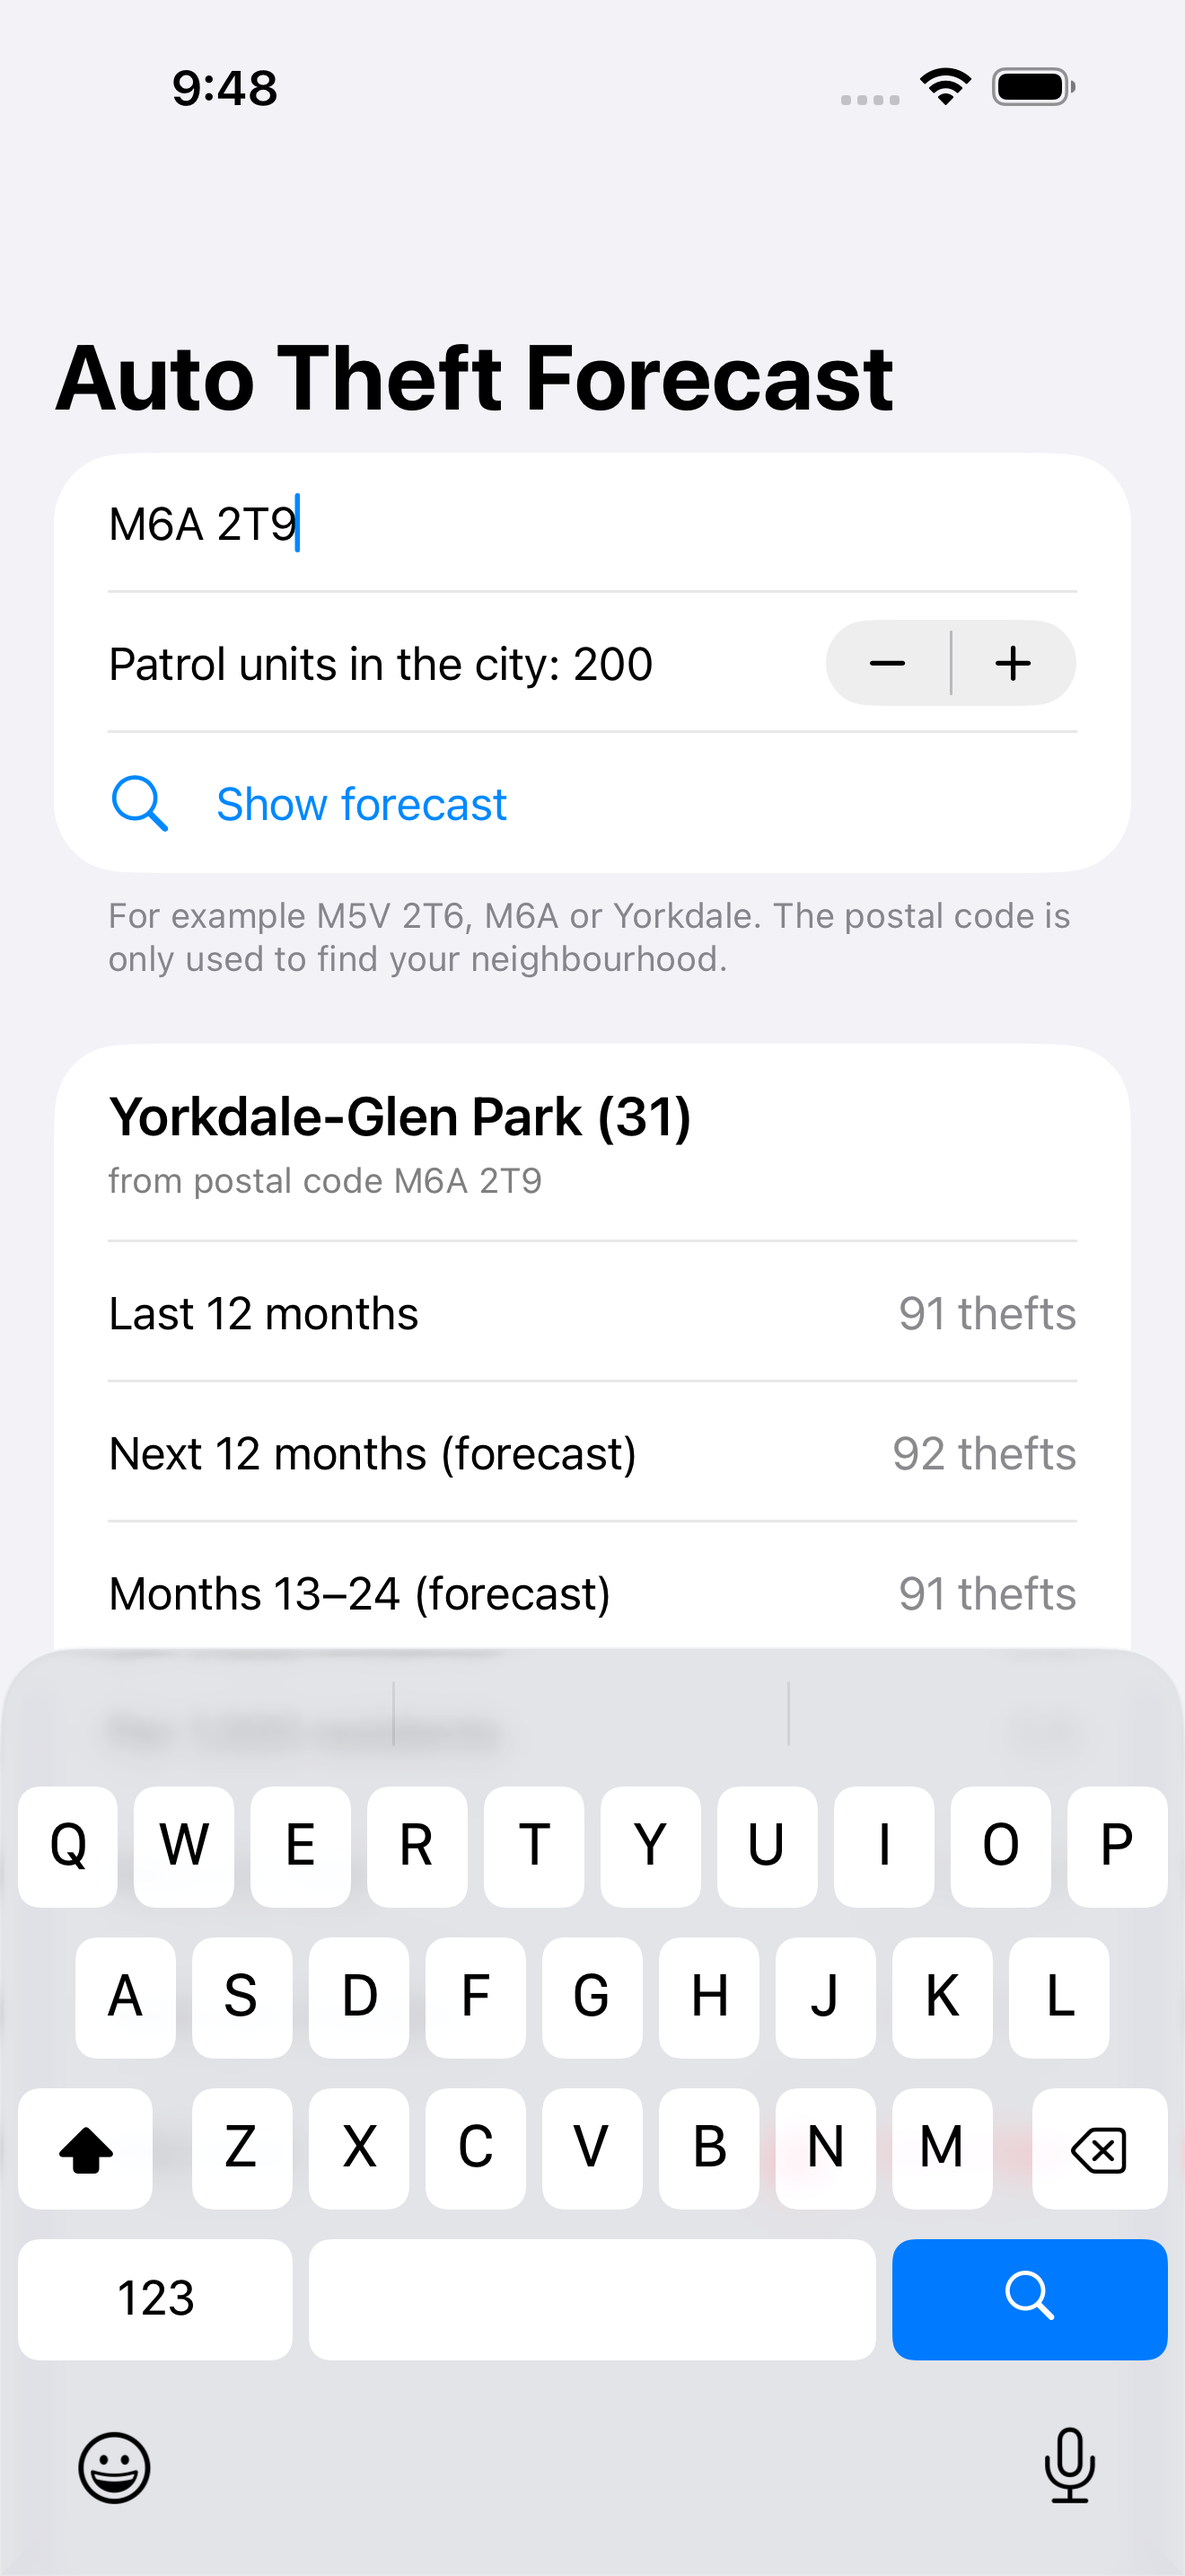
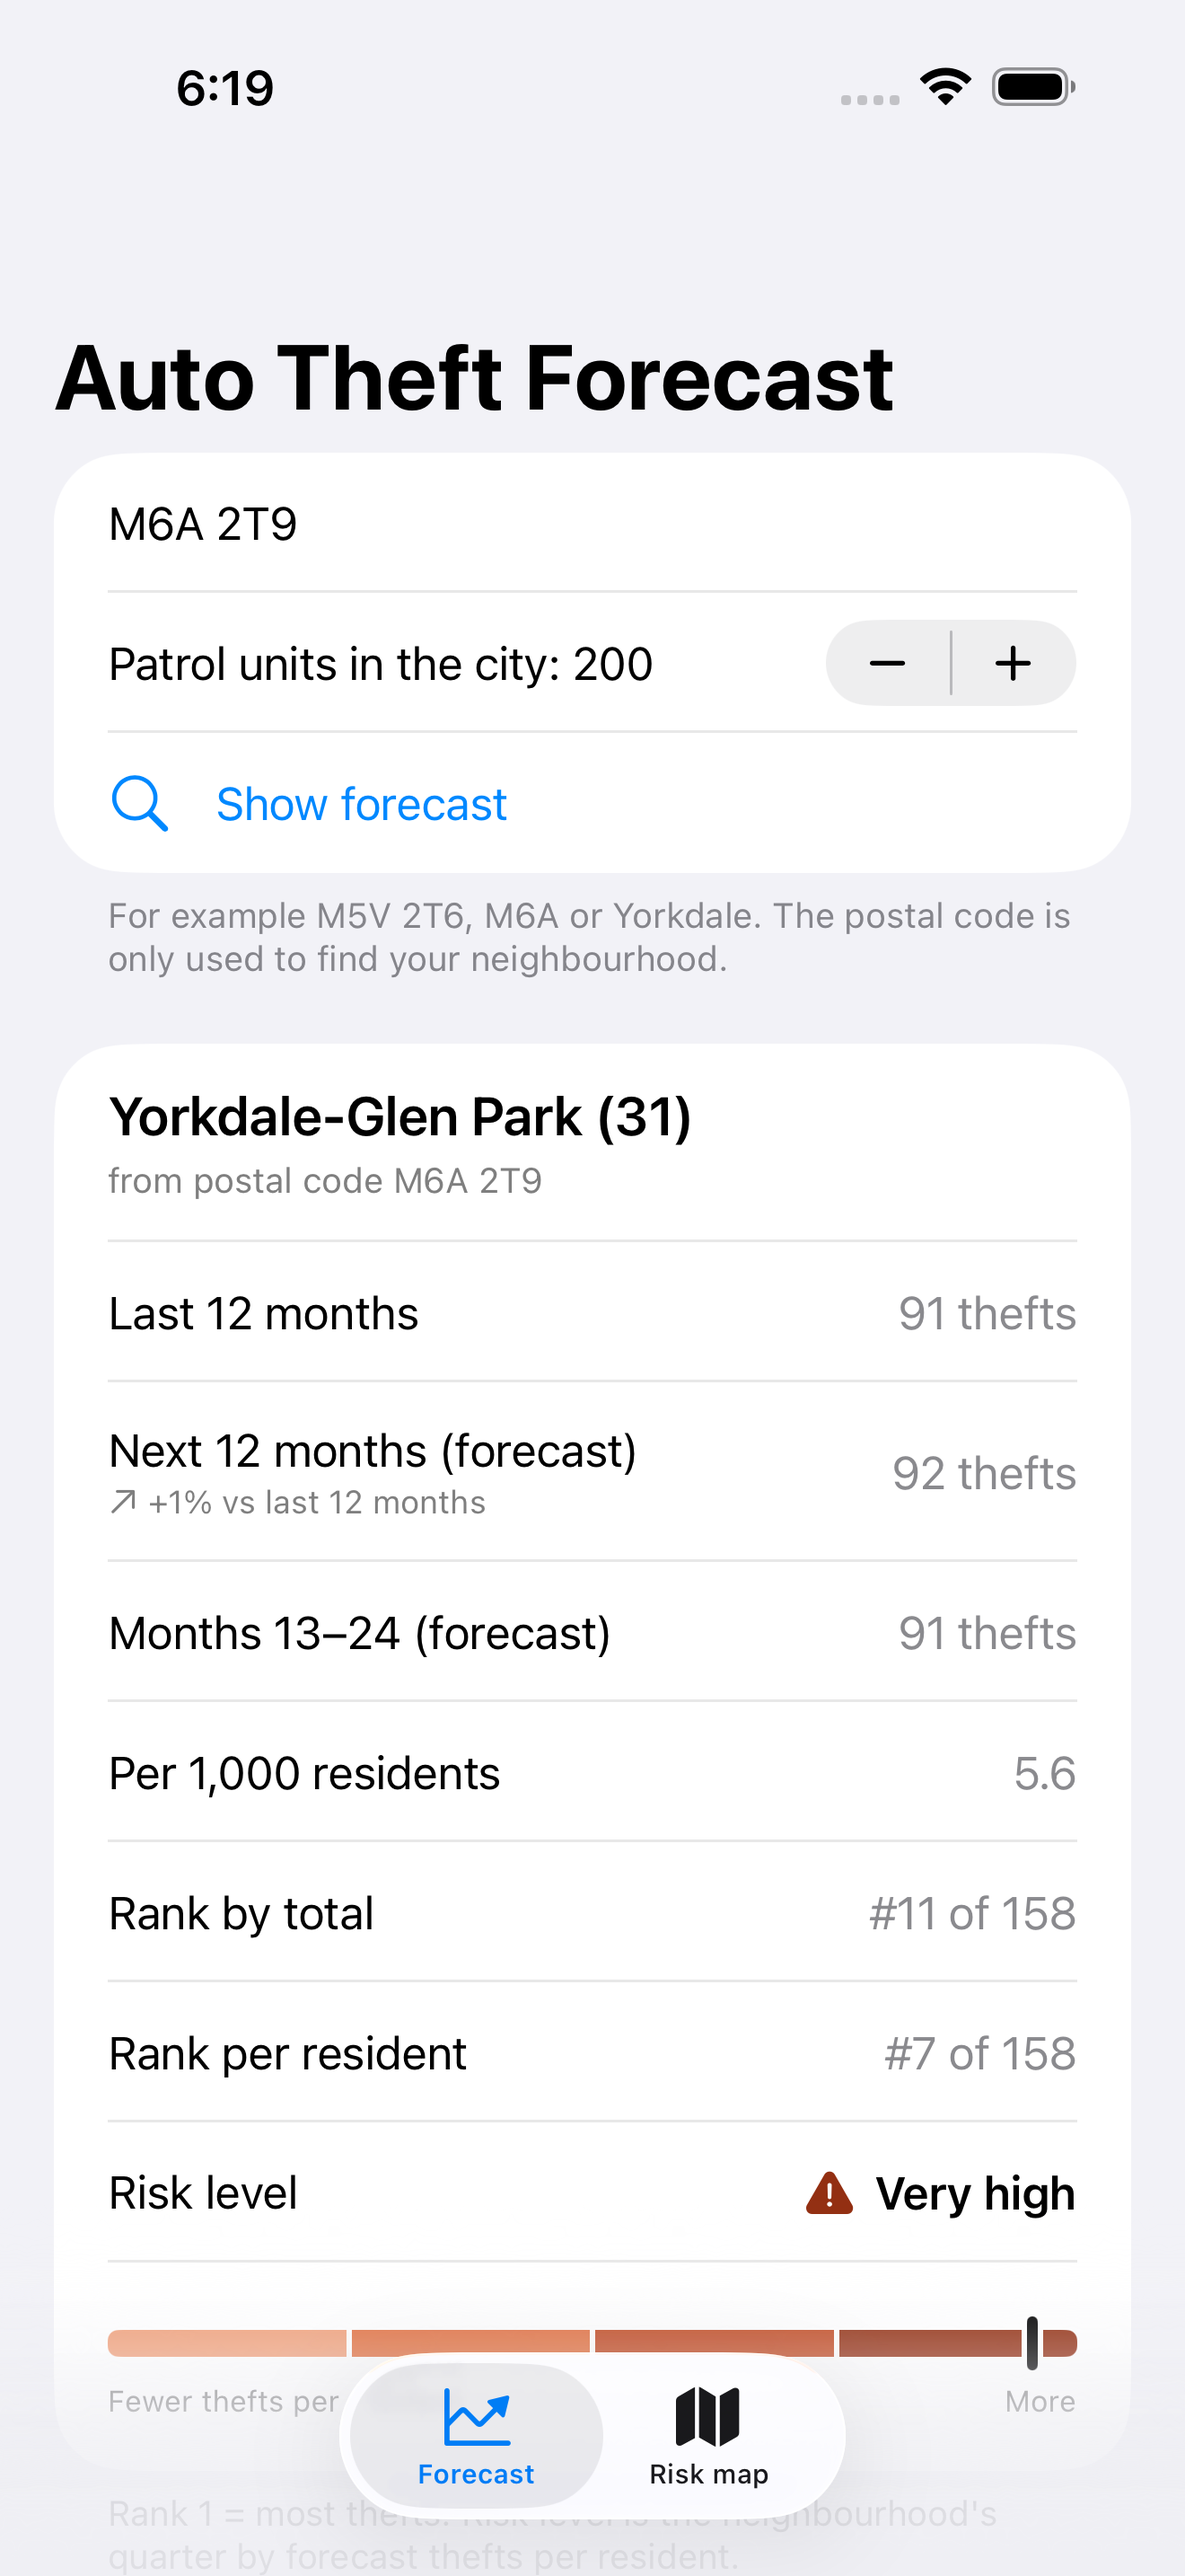
Fix empty space under risk level and refresh screenshots
A Label inside a Form row made the "Risk level" row hundreds of points
tall and put the trend arrow on its own line. Use an HStack for the risk
badge and inline-image Text for the trend, and show the trend under the
"Next 12 months" title.

Update the README with current screenshots of all five UI test screens.

diff --git a/Packages/TheftForecastKit/Sources/TheftForecastUI/PredictionSummaryView.swift b/Packages/TheftForecastKit/Sources/TheftForecastUI/PredictionSummaryView.swift
@@ -20,9 +20,13 @@ struct PredictionSummaryView: View {
                 Text(prediction.matchDescription).font(.footnote).foregroundStyle(.secondary)
             }
             LabeledContent("Last 12 months", value: "\(prediction.lastTwelveMonths) thefts")
-            LabeledContent("Next 12 months (forecast)") {
-                VStack(alignment: .trailing, spacing: 2) {
-                    Text("\(whole(prediction.nextTwelveMonths)) thefts")
+            // The trend sits under the title, not beside the value: side by side, the title and
+            // the wide trend text both wrapped on phone widths and left a tall, mostly empty row.
+            LabeledContent {
+                Text("\(whole(prediction.nextTwelveMonths)) thefts")
+            } label: {
+                VStack(alignment: .leading, spacing: 2) {
+                    Text("Next 12 months (forecast)")
                     TrendLabel(previous: Double(prediction.lastTwelveMonths), next: prediction.nextTwelveMonths)
                 }
             }
@@ -57,12 +61,11 @@ private struct TrendLabel: View {
     var body: some View {
         if previous > 0 {
             let change: Double = (next - previous) / previous
-            Label(
-                "\(change.formatted(.percent.precision(.fractionLength(0)).sign(strategy: .always()))) vs last 12 months",
-                systemImage: abs(change) < 0.005 ? "arrow.right" : (change > 0 ? "arrow.up.right" : "arrow.down.right")
-            )
-            .font(.caption)
-            .foregroundStyle(.secondary)
+            // Text with an inline image, not a Label: in a Form row a Label put the arrow on its own line.
+            let symbol: String = abs(change) < 0.005 ? "arrow.right" : (change > 0 ? "arrow.up.right" : "arrow.down.right")
+            Text("\(Image(systemName: symbol)) \(change.formatted(.percent.precision(.fractionLength(0)).sign(strategy: .always()))) vs last 12 months")
+                .font(.caption)
+                .foregroundStyle(.secondary)
         }
     }
 }

diff --git a/Packages/TheftForecastKit/Sources/TheftForecastUI/RiskBadge.swift b/Packages/TheftForecastKit/Sources/TheftForecastUI/RiskBadge.swift
@@ -12,11 +12,13 @@ import TheftForecastInterface
 struct RiskBadge: View {
     let level: RiskLevel
 
+    // A plain HStack, not a Label: inside a Form row, Label picks up list-row icon layout
+    // and made the "Risk level" row hundreds of points tall with empty space under it.
     var body: some View {
-        Label {
-            Text(level.rawValue).fontWeight(.semibold)
-        } icon: {
+        HStack(spacing: 6) {
             Image(systemName: level.symbol).foregroundStyle(level.tint)
+            Text(level.rawValue).fontWeight(.semibold).foregroundStyle(.primary)
         }
+        .accessibilityElement(children: .combine)
     }
 }

diff --git a/README.md b/README.md
@@ -8,14 +8,18 @@ into a location.
 
 ## Screenshots
 
-These screenshots predate the map and charts added below; rerun the UI test to refresh
-them. They come from the `ForecastFlowUITests` UI test (iPhone 17 Pro Max
-simulator, test passed). The test searches for **M6A 2T9** (Yorkdale Shopping Centre)
-and scrolls through the results.
+These screenshots come from the `ForecastFlowUITests` UI tests (iPhone 17 Pro Max
+simulator, iOS 26.2, both tests passed). The forecast test searches for **M6A 2T9**
+(Yorkdale Shopping Centre) and scrolls through the results; the risk map test opens the
+second tab. Rerun the UI tests to refresh them.
 
-| Summary | Ranks and profile | Chart and patrol plan |
+| Summary | Map and neighbours | Chart |
 |:---:|:---:|:---:|
-| <img src="docs/screenshots/1-summary.png" width="250" alt="Forecast summary for Yorkdale-Glen Park: 91 thefts in the last 12 months, 92 forecast for the next 12"> | <img src="docs/screenshots/2-chart.png" width="250" alt="Rank 7 of 158 per resident, risk level very high, and the neighbourhood profile"> | <img src="docs/screenshots/3-patrol-plan.png" width="250" alt="Actual and forecast theft chart followed by the monthly patrol plan split by shift"> |
+| <img src="docs/screenshots/1-summary.png" width="250" alt="Forecast summary for Yorkdale-Glen Park: 91 thefts in the last 12 months, 92 forecast for the next 12, up 1 percent, risk level very high"> | <img src="docs/screenshots/2-map.png" width="250" alt="Risk meter, neighbourhood profile, and a map of Yorkdale-Glen Park with its bordering neighbourhoods shaded by risk"> | <img src="docs/screenshots/3-chart.png" width="250" alt="Comparison with bordering neighbourhoods and the monthly theft chart, actual then forecast"> |
+
+| Patrol plan | Toronto risk map |
+|:---:|:---:|
+| <img src="docs/screenshots/4-patrol-plan.png" width="250" alt="Patrol units by shift as a stacked bar chart above the monthly patrol table"> | <img src="docs/screenshots/5-risk-map.png" width="250" alt="All 158 Toronto neighbourhoods coloured by risk level"> |
 
 ## Key Features
 
